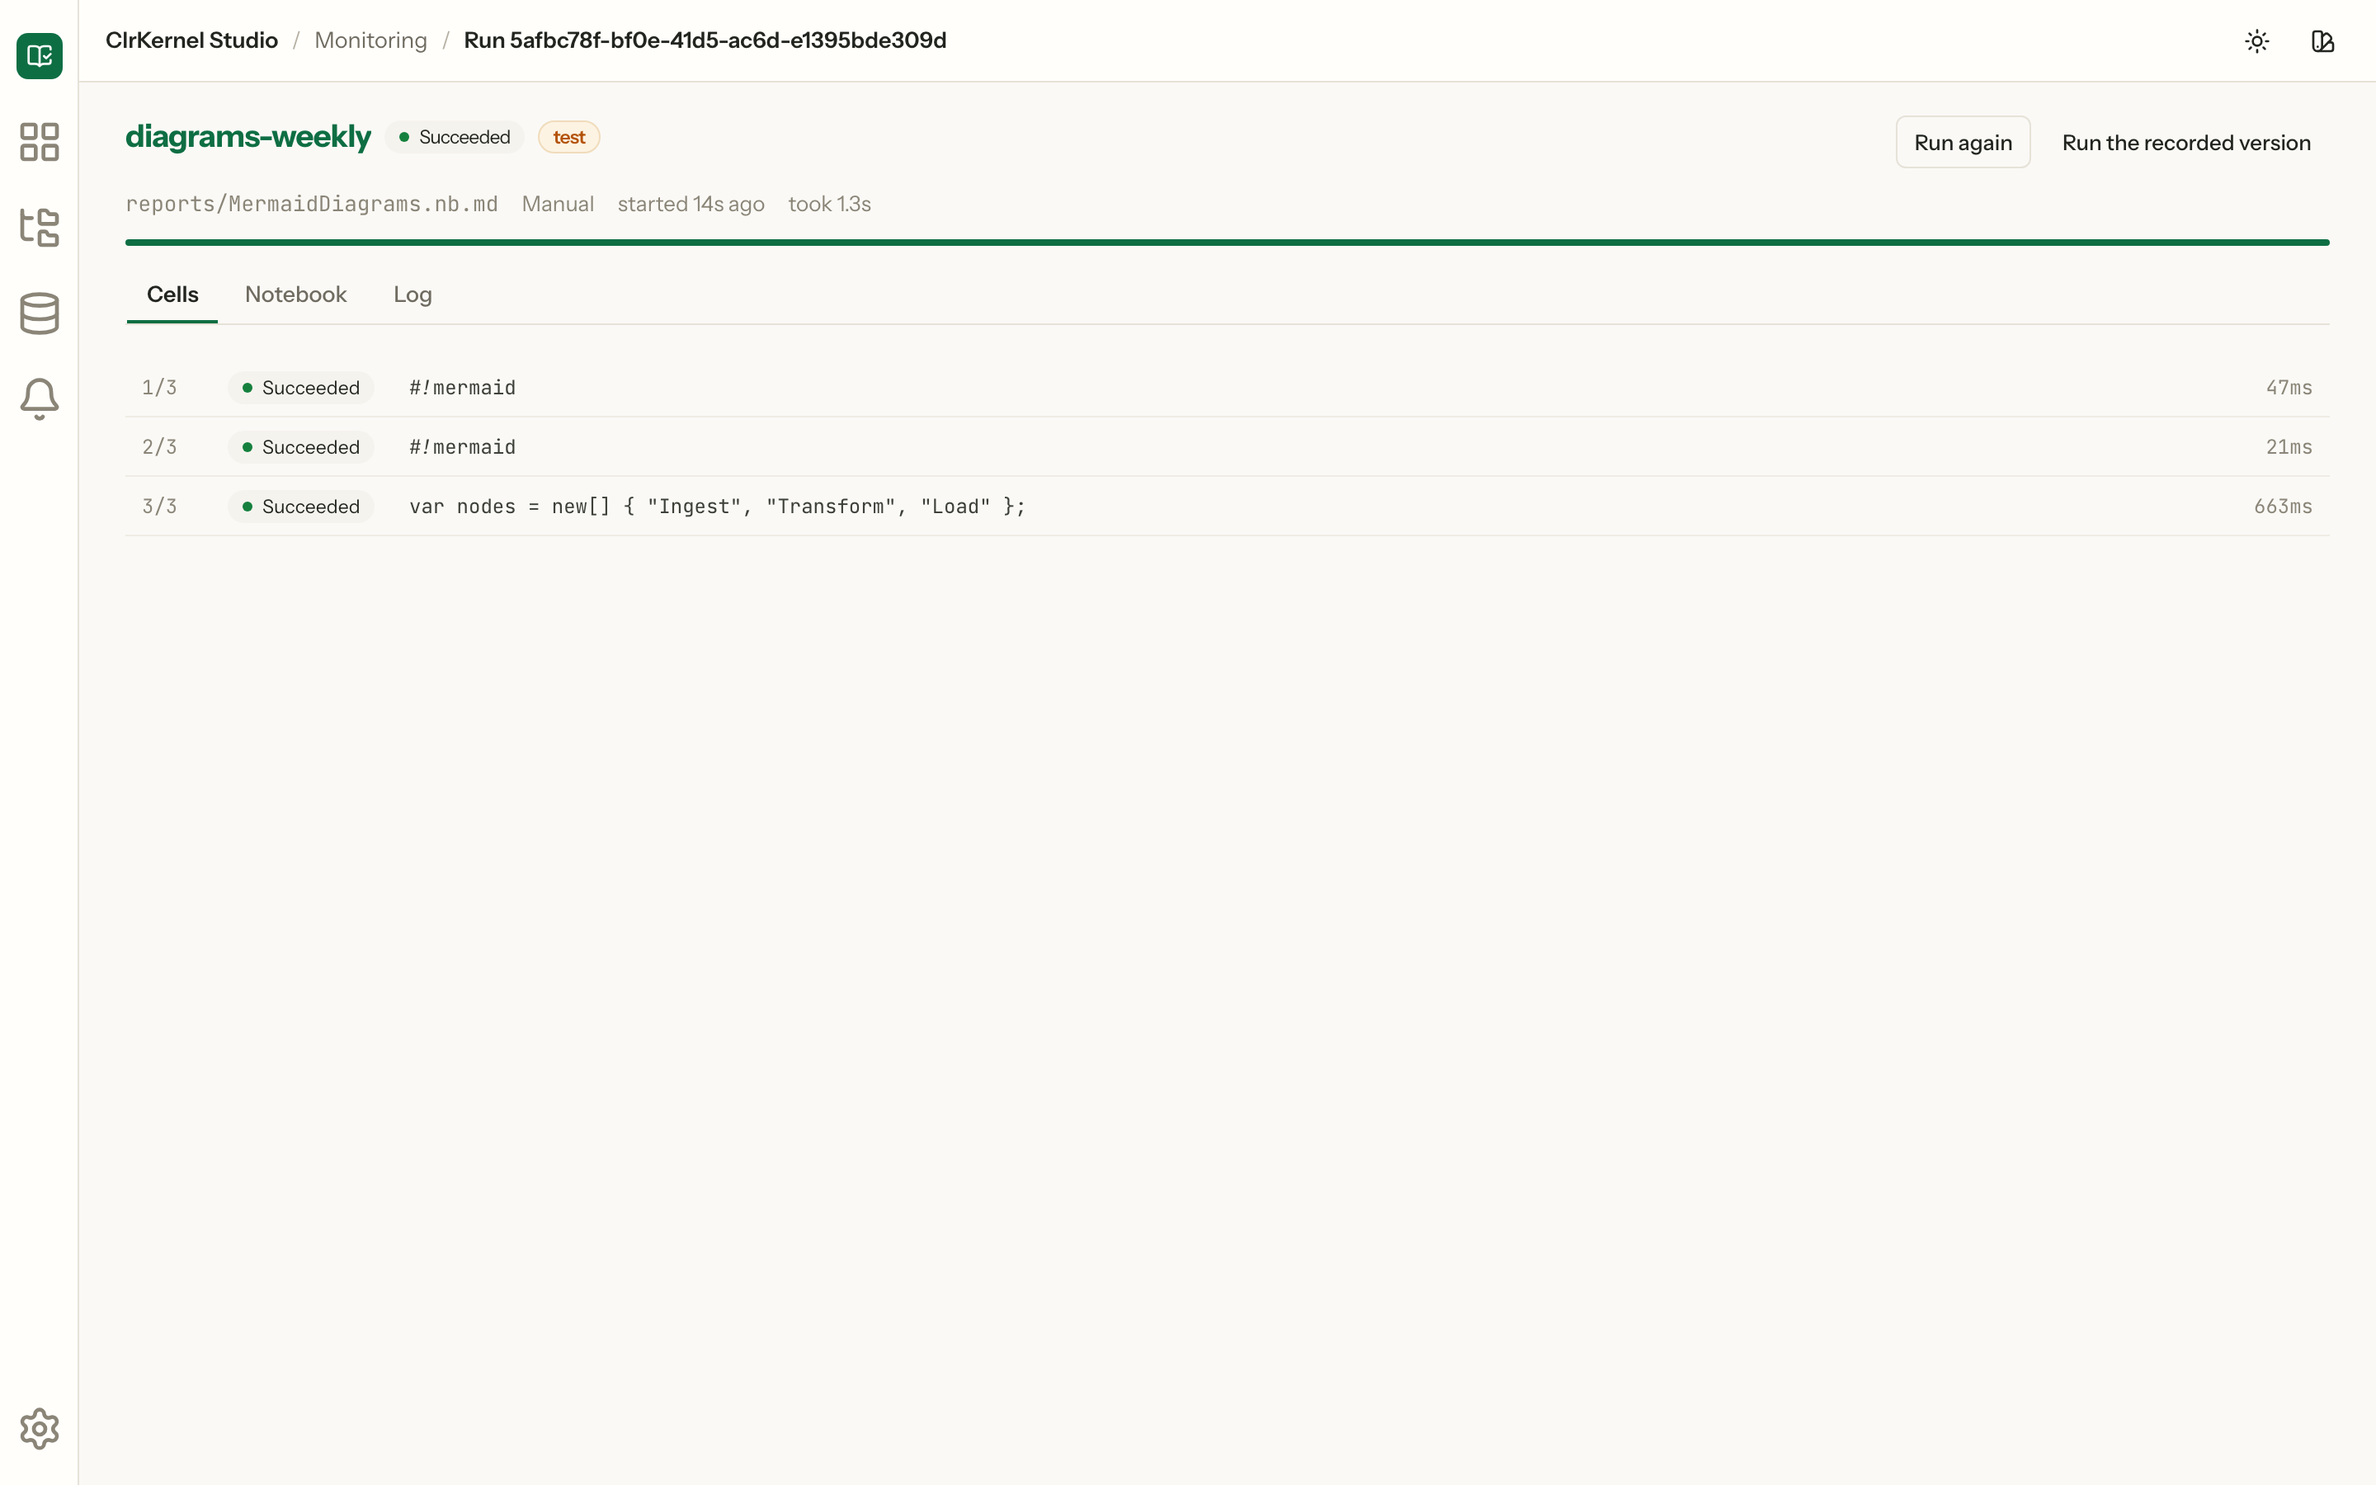
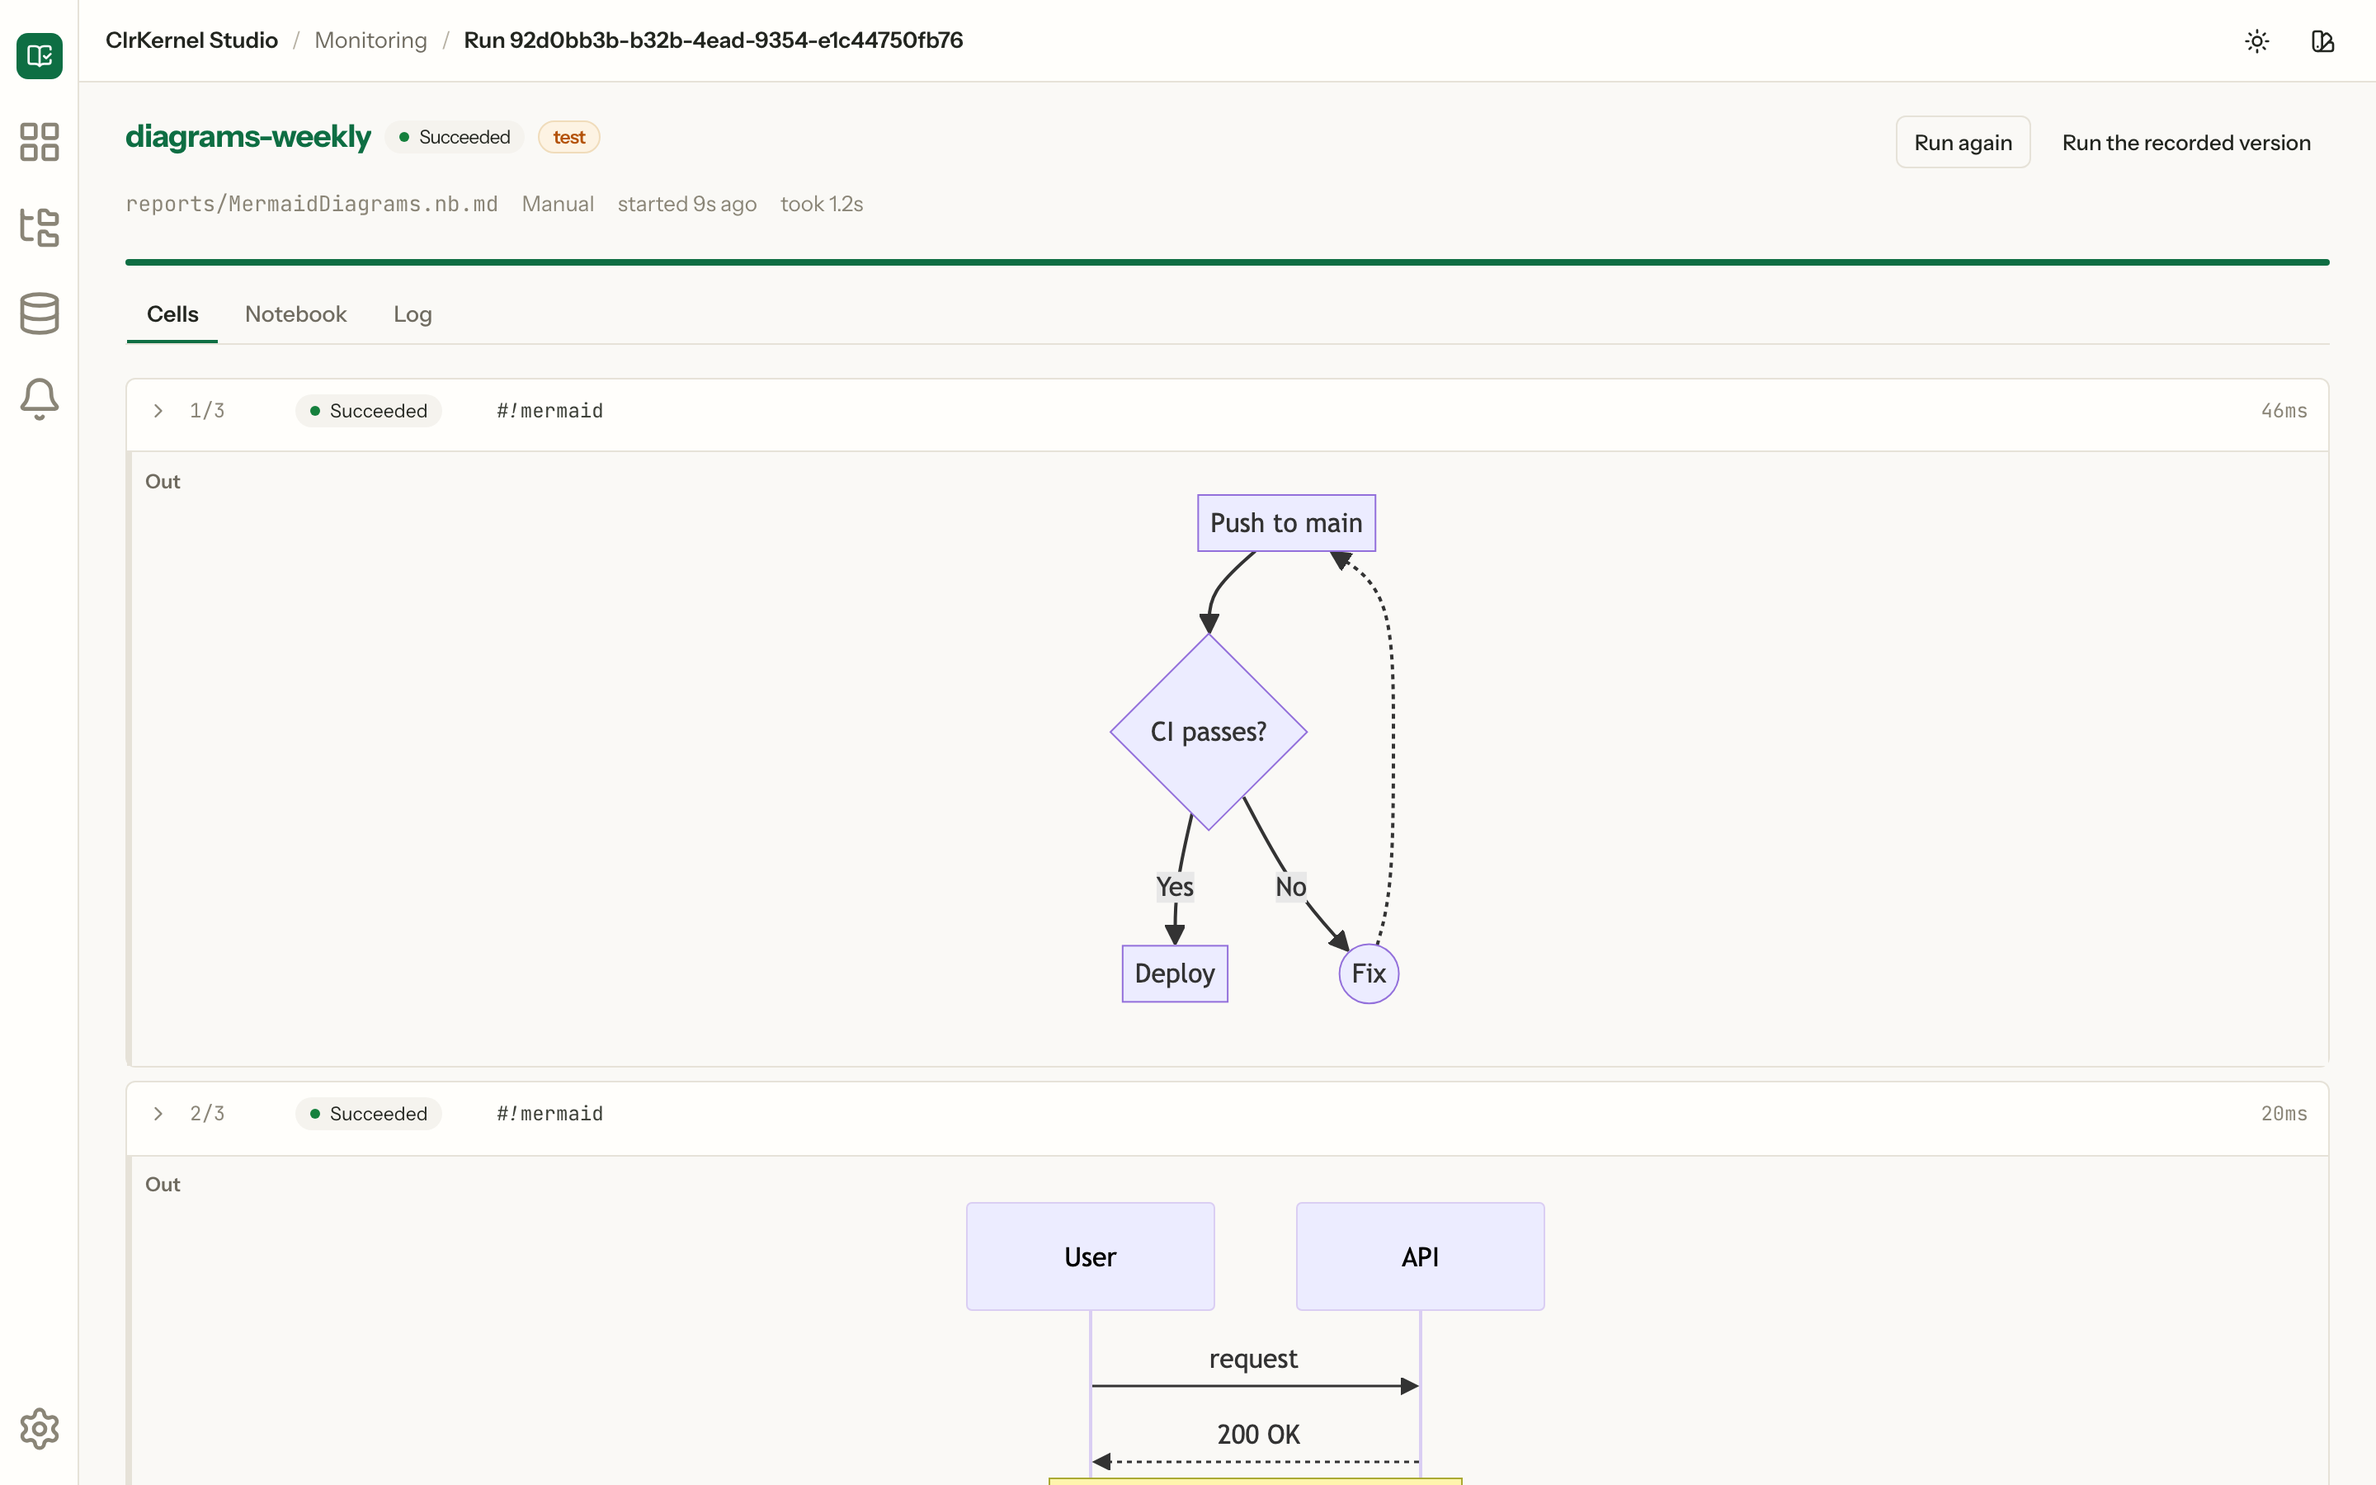
studio run page: tabs in the address, cells with their output open, notebook outputs that look like outputs, a log that fills the window
/runs/:id/cells|notebook|log, so a refresh on Log stays on Log. Cells is one
collapsed row per cell — index, status, first line, duration — with that
cell's outputs open underneath, matched to the artifact's code cells by order
(the injected parameters cell included); the row expands to the full source.
Notebook puts source and output in separate boxes with an Out gutter. Log
drops its max-height and takes the rest of the viewport.

diff --git a/src/ClrKernel.Studio/webapp/src/pages/RunDetail.tsx b/src/ClrKernel.Studio/webapp/src/pages/RunDetail.tsx
@@ -1,66 +1,84 @@
 import { useEffect, useState } from 'react';
-import { Link, useParams } from 'react-router-dom';
+import { ChevronDown, ChevronRight } from 'lucide-react';
+import { Link, useNavigate, useParams } from 'react-router-dom';
 import { Alert, AlertDescription } from '@/components/ui/alert';
 import { Button } from '@/components/ui/button';
 import { Tabs, TabsContent, TabsList, TabsTrigger } from '@/components/ui/tabs';
 import { api, isActive, type Run, type RunCell } from '../api';
 import { rerunOutcome, rerunQuestion } from '../rerun';
 import { jobRunsPath } from '../routes';
+import { pairCells, type PairedCell } from '../runCells';
 import { EnvBadge, ErrorBanner, StatusBadge, usePolling } from '../components/common';
-import { NotebookView } from '../components/NotebookView';
+import { NotebookView, Output } from '../components/NotebookView';
 import { duration, timeAgo, type Notebook } from '../ipynb';
 
-/** The step-by-step view: one row per code cell, updated live while the run is in flight. */
-function CellProgress({ cells }: { cells: RunCell[] }) {
+/** The tabs are routes, so a reload lands where you were. */
+const TABS = ['cells', 'notebook', 'log'] as const;
+type Tab = (typeof TABS)[number];
+
+/**
+ * One cell: a collapsed header — its first line — with the outputs open beneath
+ * it. The output is what you came to read; the source is one click away.
+ */
+function CellBlock({ paired, total }: { paired: PairedCell; total: number }) {
+  const { cell, source, outputs } = paired;
+  const [open, setOpen] = useState(false);
+  const tone = cell.status === 'Running' ? 'row-active' : cell.status === 'Failed' ? 'row-failed' : '';
+  const Chevron = open ? ChevronDown : ChevronRight;
+  return (
+    <div className="rounded-md border border-border bg-card">
+      <button
+        type="button"
+        onClick={() => setOpen(!open)}
+        aria-expanded={open}
+        className={`flex w-full items-center gap-3 px-3 py-2 text-left hover:bg-muted ${tone}`}
+      >
+        <Chevron className="size-3.5 shrink-0 text-muted-subtle" aria-hidden="true" />
+        <span className="w-[52px] shrink-0 whitespace-nowrap font-mono text-code text-muted-subtle">
+          {cell.cellIndex + 1}/{total}
+        </span>
+        <span className="w-[110px] shrink-0"><StatusBadge status={cell.status} /></span>
+        <span className="min-w-0 flex-1 truncate font-mono text-code text-code-fg">
+          {cell.sourcePreview}
+        </span>
+        <span className="shrink-0 whitespace-nowrap font-mono text-code text-muted-subtle">
+          {duration(cell.startedAt, cell.finishedAt)}
+        </span>
+      </button>
+      {open && (
+        <pre className="cell-source m-0 border-t border-border bg-muted px-3 py-2 font-mono text-code text-code-fg">
+          {source ?? cell.sourcePreview}
+        </pre>
+      )}
+      {(outputs.length > 0 || cell.errorSummary) && (
+        <div className="cell-outputs border-t border-border">
+          {outputs.map((output, i) => <Output key={i} output={output} />)}
+          {cell.errorSummary && (
+            <div className="mt-1 font-mono text-code text-status-error">{cell.errorSummary}</div>
+          )}
+        </div>
+      )}
+    </div>
+  );
+}
+
+function CellProgress({ cells, artifact }: { cells: RunCell[]; artifact: Notebook | null }) {
   if (cells.length === 0) {
     return <p className="text-base text-muted-foreground">No cells recorded for this run.</p>;
   }
   return (
-    <>
-      <div className="table-box">
-        <table className="table">
-          <tbody>
-            {cells.map((cell) => (
-              <tr
-                key={cell.cellIndex}
-                className={
-                  cell.status === 'Running'
-                    ? 'row-active'
-                    : cell.status === 'Failed'
-                      ? 'row-failed'
-                      : undefined
-                }
-              >
-                <td className="w-[52px] whitespace-nowrap font-mono text-code text-muted-subtle">
-                  {cell.cellIndex + 1}/{cells.length}
-                </td>
-                <td className="w-[110px]">
-                  <StatusBadge status={cell.status} />
-                </td>
-                <td>
-                  <pre className="m-0 whitespace-pre-wrap break-words font-mono text-code text-code-fg">
-                    {cell.sourcePreview}
-                  </pre>
-                  {cell.errorSummary && (
-                    <div className="mt-1 font-mono text-code text-status-error">
-                      {cell.errorSummary}
-                    </div>
-                  )}
-                </td>
-                <td className="w-[70px] whitespace-nowrap text-right font-mono text-code text-muted-subtle">
-                  {duration(cell.startedAt, cell.finishedAt)}
-                </td>
-              </tr>
-            ))}
-          </tbody>
-        </table>
-      </div>
-    </>
+    <div className="flex flex-col gap-2">
+      {pairCells(cells, artifact).map((paired) => (
+        <CellBlock key={paired.cell.cellIndex} paired={paired} total={cells.length} />
+      ))}
+    </div>
   );
 }
 
 export function RunDetail() {
-  const { id } = useParams<{ id: string }>();
+  const { id, tab: tabParam } = useParams<{ id: string; tab: string }>();
+  const navigate = useNavigate();
+  const tab: Tab = (TABS as readonly string[]).includes(tabParam ?? '') ? (tabParam as Tab) : 'cells';
   const [artifact, setArtifact] = useState<Notebook | null>(null);
   const [log, setLog] = useState<string>('');
 
@@ -136,7 +154,7 @@ export function RunDetail() {
   }
 
   return (
-    <div>
+    <div className="flex h-full min-h-0 flex-col">
       <div className="mb-3 flex items-start justify-between gap-4">
         <h1 className="flex min-w-0 items-center gap-2 text-xl font-bold tracking-tight">
           <Link
@@ -219,15 +237,19 @@ export function RunDetail() {
         />
       </div>
 
-      <Tabs defaultValue="progress">
-        <TabsList variant="line" className="mb-3">
-          <TabsTrigger value="progress">Cells</TabsTrigger>
+      <Tabs
+        value={tab}
+        onValueChange={(next) => navigate(`/runs/${id}/${next}`, { replace: true })}
+        className="flex min-h-0 flex-1 flex-col"
+      >
+        <TabsList variant="line" className="mb-3 shrink-0">
+          <TabsTrigger value="cells">Cells</TabsTrigger>
           <TabsTrigger value="notebook">Notebook</TabsTrigger>
           <TabsTrigger value="log">Log</TabsTrigger>
         </TabsList>
 
-        <TabsContent value="progress">
-          <CellProgress cells={data?.cells ?? []} />
+        <TabsContent value="cells">
+          <CellProgress cells={data?.cells ?? []} artifact={artifact} />
         </TabsContent>
         <TabsContent value="notebook">
           {artifact ? (
@@ -238,9 +260,9 @@ export function RunDetail() {
             </p>
           )}
         </TabsContent>
-        <TabsContent value="log">
+        <TabsContent value="log" className="min-h-0 flex-1">
           {log ? (
-            <pre className="output-text log max-h-[480px] overflow-auto rounded-2xl border border-border bg-muted px-4 py-3.5 font-mono text-code leading-relaxed text-code-fg">
+            <pre className="output-text log h-full overflow-auto rounded-2xl border border-border bg-muted px-4 py-3.5 font-mono text-code leading-relaxed text-code-fg">
               {log}
             </pre>
           ) : (

diff --git a/src/ClrKernel.Studio/webapp/src/styles.css b/src/ClrKernel.Studio/webapp/src/styles.css
@@ -167,7 +167,43 @@
     border: 1px solid var(--border);
     border-radius: 6px;
     padding: 0.5rem;
+    background: var(--card);
+  }
+
+  .cell-code .cell-source {
+    border-radius: 4px;
+    padding: 0.4rem 0.5rem;
     background: var(--muted);
+  }
+
+  /* Outputs read as outputs: an "Out" gutter and a rule, the way Jupyter marks
+     them, so the last line of a cell is never mistaken for its source. */
+  .cell-outputs {
+    position: relative;
+    margin-top: 0.4rem;
+    padding: 0.4rem 0.5rem 0.4rem 2.6rem;
+    border-left: 3px solid var(--primary);
+    background: color-mix(in srgb, var(--primary) 5%, transparent);
+  }
+
+  .cell-outputs::before {
+    content: 'Out';
+    position: absolute;
+    left: 0.5rem;
+    top: 0.45rem;
+    font-size: 0.75rem;
+    font-weight: 600;
+    color: var(--muted-foreground);
+  }
+
+  .cell-outputs .output-text,
+  .cell-outputs .output-html,
+  .cell-outputs .output-error {
+    margin-top: 0;
+  }
+
+  .cell-outputs .output-text {
+    color: var(--foreground);
   }
 
   .cell-injected {
@@ -210,7 +246,6 @@
     border-radius: 6px;
     padding: 0.6rem;
     background: var(--muted);
-    max-height: 32rem;
     overflow: auto;
   }
 

diff --git a/src/ClrKernel.Studio/webapp/src/runCells.test.ts b/src/ClrKernel.Studio/webapp/src/runCells.test.ts
@@ -1,0 +1,29 @@
+import { describe, expect, it } from 'vitest';
+import type { RunCell } from './api';
+import { pairCells } from './runCells';
+
+const cell = (cellIndex: number): RunCell =>
+  ({ cellIndex, status: 'Succeeded', sourcePreview: `line ${cellIndex}` }) as RunCell;
+
+describe('pairCells', () => {
+  it('skips markdown and matches code cells by order, injected cell included', () => {
+    const paired = pairCells([cell(0), cell(1)], {
+      cells: [
+        { cell_type: 'markdown', source: '# Title' },
+        { cell_type: 'code', source: ['var x = 1;'], metadata: { tags: ['injected-parameters'] } },
+        { cell_type: 'markdown', source: 'prose' },
+        { cell_type: 'code', source: 'x + 1', outputs: [{ output_type: 'stream', text: '2' }] },
+      ],
+    });
+    expect(paired[0].source).toBe('var x = 1;');
+    expect(paired[0].outputs).toEqual([]);
+    expect(paired[1].source).toBe('x + 1');
+    expect(paired[1].outputs).toHaveLength(1);
+  });
+
+  it('has no source or outputs while the artifact is absent', () => {
+    const [only] = pairCells([cell(0)], null);
+    expect(only.source).toBeNull();
+    expect(only.outputs).toEqual([]);
+  });
+});

diff --git a/src/ClrKernel.Studio/webapp/src/runCells.ts b/src/ClrKernel.Studio/webapp/src/runCells.ts
@@ -1,0 +1,29 @@
+import type { RunCell } from './api';
+import { joinSource, type Notebook, type NotebookOutput } from './ipynb';
+
+/** A run cell with what the artifact recorded for it, once there is one. */
+export interface PairedCell {
+  cell: RunCell;
+  /** The full source, or null while the run is live and the artifact not yet written. */
+  source: string | null;
+  outputs: NotebookOutput[];
+}
+
+/**
+ * Run cells beside their artifact cells, matched by order.
+ *
+ * `RunCell.cellIndex` is the code-cell index of the executed plan, which counts
+ * the injected parameters cell, and the artifact is that same plan written out —
+ * so the artifact's code cells, in order, are the run cells, in order.
+ */
+export function pairCells(runCells: RunCell[], notebook: Notebook | null): PairedCell[] {
+  const code = (notebook?.cells ?? []).filter((c) => c.cell_type === 'code');
+  return runCells.map((cell) => {
+    const artifact = code[cell.cellIndex];
+    return {
+      cell,
+      source: artifact ? joinSource(artifact.source) : null,
+      outputs: artifact?.outputs ?? [],
+    };
+  });
+}

diff --git a/src/ClrKernel.Studio/webapp/src/components/NotebookView.tsx b/src/ClrKernel.Studio/webapp/src/components/NotebookView.tsx
@@ -81,9 +81,13 @@ function Cell({ cell }: { cell: NotebookCell }) {
       <div className="cell-body">
         {injected && <div className="cell-tag">injected parameters</div>}
         <pre className="cell-source">{source}</pre>
-        {(cell.outputs ?? []).map((output, i) => (
-          <Output key={i} output={output} />
-        ))}
+        {(cell.outputs ?? []).length > 0 && (
+          <div className="cell-outputs">
+            {(cell.outputs ?? []).map((output, i) => (
+              <Output key={i} output={output} />
+            ))}
+          </div>
+        )}
       </div>
     </div>
   );

diff --git a/src/ClrKernel.Studio/webapp/src/App.tsx b/src/ClrKernel.Studio/webapp/src/App.tsx
@@ -246,6 +246,7 @@ export function App() {
               <Route path="/settings" element={<Settings />} />
               <Route path="/settings/:section" element={<Settings />} />
               <Route path="/runs/:id" element={<RunDetail />} />
+              <Route path="/runs/:id/:tab" element={<RunDetail />} />
 
               {/* Links written before the sections had projects in them. A
                   shared editor link is the one people actually paste, so it
